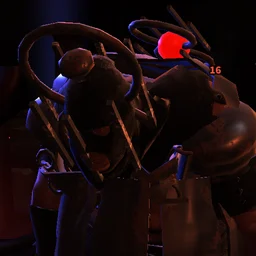
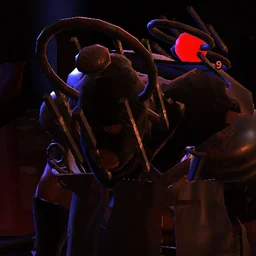
Bolum V: soguk bosluk atesi (surungen catlaklari, Kadi'nin boynuzlari ve cubbe dikisleri), portreler yenilendi

diff --git a/src/finale-models.js b/src/finale-models.js
@@ -37,6 +37,8 @@
         bone: C.bodyMaterial(C.gearMaterial('bone'), 'finale-' + type + '-bone', { cls: 'bone', tint: [.9, .84, .74], grime: .3, blood: .18, scale: 10 }, { roughness: .76 }),
         glow: C.bodyMaterial(C.gearMaterial('iron'), 'finale-' + type + '-verdict-fire', { cls: 'metal', tint: [.6, .2, .16], rust: .2, grime: .3, wear: .6, scale: 10 }, { color: new T.Color(0x3a0e0a), emissive: new T.Color(0xff2a14), emissiveIntensity: boss ? 1.7 : 1.15, roughness: .6, metalness: .5 })
       };
+      // cold void fire: the second colour of the court (cracks of the void crawler, the Qadi's horns and robe seams)
+      materials.cold = C.bodyMaterial(C.gearMaterial('iron'), 'finale-' + type + '-void-fire', { cls: 'metal', tint: [.2, .24, .5], rust: .1, grime: .3, wear: .6, scale: 10 }, { color: new T.Color(0x0c1030), emissive: new T.Color(0x4a66ff), emissiveIntensity: boss ? 1.6 : 1.2, roughness: .5, metalness: .4 });
       GLOW.push({ mat: materials.glow, base: materials.glow.emissiveIntensity, type: type });
       function limbCover(key, from, to, t0, t1, pad, thickness, flare) {
         var q = C.sleeve(A, from, to, t0, t1, pad, thickness, ['skin'], flare, { u: 20, v: 6 });
@@ -114,9 +116,9 @@
         var panels = []; for (var row = 0; row < 4; row++) for (var side = -1; side <= 1; side += 2) (function (row, side) { var center = side * .68, width = .57 - row * .045, top = fb.max.y - .03 - row * torsoH * .19; panels.push(G.shell(9, 4, function (u, v) { var a = center + (u - .5) * width, y = top - v * torsoH * .18; return fitted.at(a, y, .017 + .02 * Math.sin(v * Math.PI)); }, .009, false, true)); })(row, side);
         var sh = G.merge(panels); G.uvScale(sh, 1.4, 1.3); plateWear(sh, .18); fitted.attach('iron', sh);
         var cracks = [seam(armL, .03, .007), seam(armR, -.03, .007), seam(foreL, .028, .006), seam(foreR, -.028, .006)];
-        A.rigid('glow', cracks[0], armL); A.rigid('glow', cracks[1], armR); A.rigid('glow', cracks[2], foreL); A.rigid('glow', cracks[3], foreR);
-        A.rigid('glow', seam(thighL, .04, .008), thighL); A.rigid('glow', seam(thighR, -.04, .008), thighR);
-        var fc = []; for (var m = 0; m < 5; m++) { var a0 = (m - 2) * .55, pts = []; for (var j = 0; j < 5; j++) pts.push(fitted.at(a0 + Math.sin(j * 2.1 + m * 1.7) * .16, fb.max.y - .04 - j * torsoH * .17, .02)); fc.push(G.tube(pts, .0065, 5, 16, false)); } fitted.attach('glow', G.merge(fc));
+        A.rigid('cold', cracks[0], armL); A.rigid('cold', cracks[1], armR); A.rigid('cold', cracks[2], foreL); A.rigid('cold', cracks[3], foreR);
+        A.rigid('cold', seam(thighL, .04, .008), thighL); A.rigid('cold', seam(thighR, -.04, .008), thighR);
+        var fc = []; for (var m = 0; m < 5; m++) { var a0 = (m - 2) * .55, pts = []; for (var j = 0; j < 5; j++) pts.push(fitted.at(a0 + Math.sin(j * 2.1 + m * 1.7) * .16, fb.max.y - .04 - j * torsoH * .17, .02)); fc.push(G.tube(pts, .0065, 5, 16, false)); } fitted.attach('cold', G.merge(fc));
         // talons
         [handL, handR].forEach(function (hand) { var o = A.P(hand), parts = []; for (var k = 0; k < 4; k++) { var q = o.clone().add(V((k - 1.5) * .025, -.08, .03)), tip = q.clone().add(V((k - 1.5) * .01, -.13, .06)); parts.push(G.tube([q, q.clone().lerp(tip, .5).add(V(0, 0, .02)), tip], function (t) { return .012 * Math.pow(1 - t, 1.2) + .001; }, 6, 10, true)); } A.rigid('bone', G.merge(parts), hand); });
         // the head: a cracked basalt helm-skull with a glowing split
@@ -169,6 +171,9 @@
         var crown = []; for (var k = 0; k < 9; k++) { var a = k / 9 * TAU, b0 = V(c.x + Math.sin(a) * .14, c.y + .17, c.z + Math.cos(a) * .14), hgt = (k % 3 === 0 ? .32 : .18) * (k === 4 ? .5 : 1); crown.push(G.spike(.03, b0, b0.clone().add(V(Math.sin(a) * .04, hgt, Math.cos(a) * .04)))); }
         crown.push(G.ring(.15, .02, [c.x, c.y + .17, c.z], [Math.PI / 2, 0, 0], 6, 22)); A.rigid('iron', G.merge(crown), head);
         A.rigid('glow', G.ring(.42, .018, [c.x, c.y + .1, c.z - .3], [0, 0, 0], 6, 48), spine);
+        for (var hs2 = -1; hs2 <= 1; hs2 += 2) A.rigid('bone', G.tube([[c.x + hs2 * .1, c.y + .14, c.z + .02], [c.x + hs2 * .24, c.y + .24, c.z - .06], [c.x + hs2 * .34, c.y + .2, c.z - .22], [c.x + hs2 * .36, c.y + .05, c.z - .3], [c.x + hs2 * .3, c.y - .04, c.z - .2]], function (t) { return .045 * (1 - t * .85) + .004; }, 8, 26, true), head);
+        var vs = []; for (var v2 = 0; v2 < 3; v2++) { var pts2 = []; for (var j2 = 0; j2 < 7; j2++) pts2.push(new T.Vector3(hip.x + (v2 - 1) * .14 + Math.sin(j2 * 2.3 + v2) * .03, hip.y - .1 - j2 * .2, hip.z + .36 + j2 * .025)); vs.push(G.tube(pts2, .008, 5, 18, false)); }
+        A.weighted('cold', G.merge(vs), C.clothWeights(A, 'pelvis', thighL, thighR, hip.y - .1, hip.y - 1.3, .5));
         A.rigid('iron', G.merge([0, 1, 2, 3, 4, 5].map(function (k) { var a = k / 6 * TAU + .3; return G.box(.04, .12, .03, [c.x + Math.sin(a) * .42, c.y + .1 + Math.cos(a) * .42, c.z - .3]); })), spine);
         // the verdict's chains: four heavy chains hanging from the belt (one per fallen lord), each ending in a seal
         var ch = [], seals = []; [[-.26, .1], [.26, .1], [-.18, -.2], [.18, -.2]].forEach(function (o, n) { for (var k = 0; k < 11; k++) ch.push(G.ring(.035, .01, [hip.x + o[0], hip.y - .02 - k * .065, hip.z + o[1]], [k % 2 ? Math.PI / 2 : 0, 0, 0], 5, 10)); seals.push(G.sphere(.05, [hip.x + o[0], hip.y - .76, hip.z + o[1]], [1, 1, .4], 10, 6)); });
